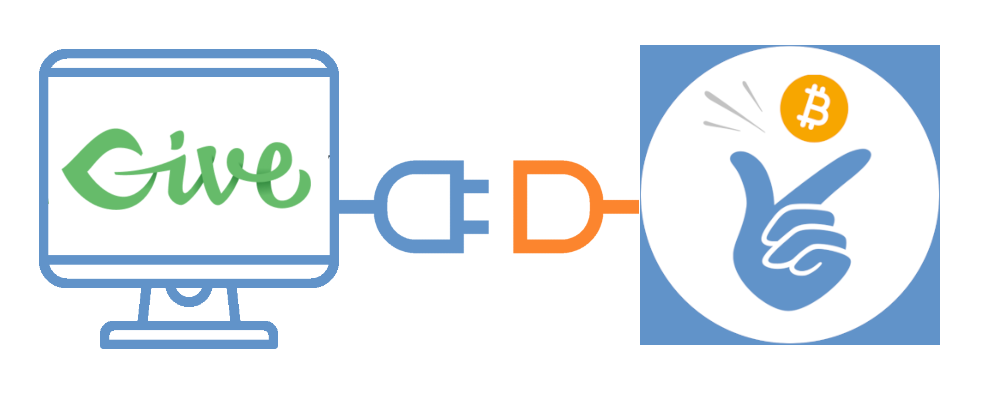
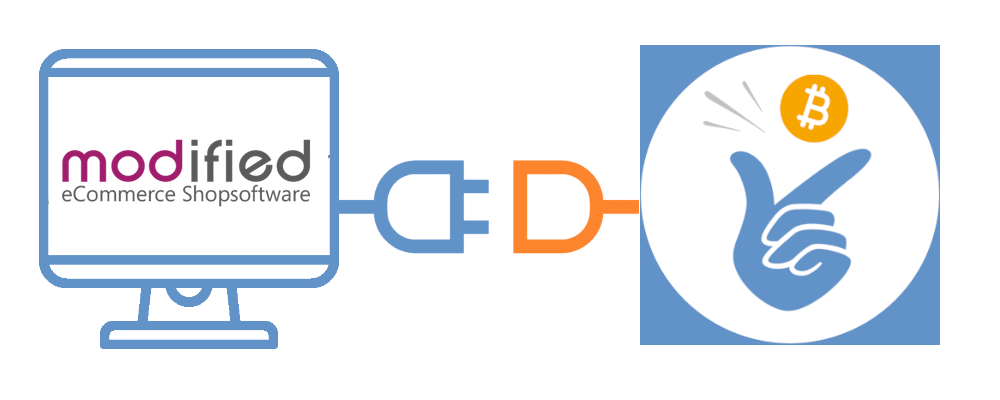
Update 14.11.2024

Changed region(s): [[0.062, 0.3, 0.31, 0.54]]

diff --git a/README.md b/README.md
@@ -1,2 +1,12 @@
-# Coinsnap-for-Modified
-Accept Bitcoin and Ligtning payments in Modified Shop with Coinsnap
+# Coinsnap for Modified Shop #
+![Coinsnap for Modified Shop](https://github.com/Coinsnap/Coinsnap-for-Modified/blob/main/assets/images/cover.png)
+## Accept Bitcoin and Lightning Payments in Modified Shop ##
+
+Contributors: coinsnap
+Tags:  Coinsnap, Modified Shop, Bitcoin, Lightning
+Requires PHP: 8.0+
+Stable tag: 1.0.0
+License: GPLv2
+License URI: http://www.gnu.org/licenses/gpl-2.0.html
+
+The Coinsnap for Modified Shop plugin allows you to accept Bitcoin Lightning payments in e-store, created with Modified e-Commerce Shop Software.
